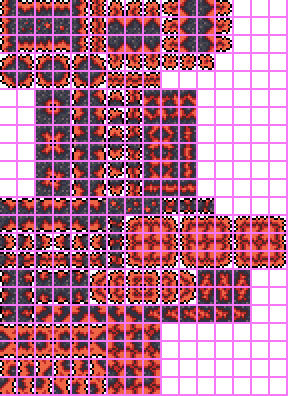
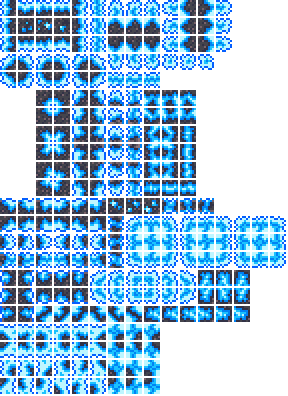
More updates lol

diff --git a/World/Passes/Underworld.cs b/World/Passes/Underworld.cs
@@ -137,18 +137,20 @@ internal class Underworld : GenPass
         }
         #endregion
         progress.Message = "Generating Hellcastle and Ashen Overgrowth";
-        int hellcastleOriginX = (Main.maxTilesX / 5) - 210;
-        int ashenLeft = (Main.maxTilesX / 5) - 450;
-        int ashenRight = (Main.maxTilesX / 5) + 500;
+        int hellcastleOriginX = (Main.maxTilesX / 2) - 100;
+        int ashenLeft = hellcastleOriginX - 100;
+        int ashenRight = hellcastleOriginX + 500;
+        // TODO: make impervious brick pillars
 
-        if (Main.drunkWorld)
-        {
-            hellcastleOriginX = (Main.maxTilesX / 3) - 210;
-            ashenLeft = (Main.maxTilesX / 3) - 450;
-            ashenRight = (Main.maxTilesX / 3) + 500;
-        }
 
-        //HellCastle.Generate(hellcastleOriginX, Main.maxTilesY - 140);
+        //if (Main.drunkWorld)
+        //{
+        //    hellcastleOriginX = (Main.maxTilesX / 3) - 210;
+        //    ashenLeft = (Main.maxTilesX / 3) - 450;
+        //    ashenRight = (Main.maxTilesX / 3) + 500;
+        //}
+
+        Hellcastle.GenerateHellcastle(hellcastleOriginX, Main.maxTilesY - 360);
         for (int hbx = ashenLeft; hbx < ashenRight; hbx++)
         {
             for (int hby = Main.maxTilesY - 200; hby < Main.maxTilesY - 50; hby++)
@@ -161,7 +163,7 @@ internal class Underworld : GenPass
                     if (Main.tile[hbx, hby].TileType == TileID.Ash)
                     {
                         Main.tile[hbx, hby].TileType = (ushort)ModContent.TileType<Impgrass>();
-                        if (WorldGen.genRand.Next(2) == 0)
+                        if (WorldGen.genRand.Next(1) == 0)
                         {
                             WorldGen.GrowTree(hbx, hby - 1);
                         }

diff --git a/Tiles/ImpVines.cs b/Tiles/ImpVines.cs
@@ -15,10 +15,10 @@ public class Impvines : ModTile
         Main.tileNoFail[Type] = true;
         Main.tileNoAttach[Type] = true;
         HitSound = SoundID.Grass;
-        DustType = DustID.Torch;
+        DustType = DustID.DungeonSpirit;
         TileID.Sets.IsVine[Type] = true;
         TileID.Sets.VineThreads[Type] = true;
-        AddMapEntry(new Color(214, 91, 64));
+        AddMapEntry(new Color(18, 176, 229));
     }
 
     public override void KillTile(int i, int j, ref bool fail, ref bool effectOnly, ref bool noItem)

diff --git a/Biomes/HellCastle.cs b/Biomes/HellCastle.cs
@@ -21,6 +21,6 @@ public class Hellcastle : ModBiome
         ushort wallType = Main.tile[tileCoordinates.X, tileCoordinates.Y].WallType;
 
         return ModContent.GetInstance<Systems.BiomeTileCounts>().HellCastleTiles > 350 &&
-            wallType == ModContent.WallType<Walls.ImperviousBrickWallUnsafe>() && player.ZoneUnderworldHeight;
+            wallType == ModContent.WallType<Walls.ImperviousBrickWallUnsafe>();
     }
 }

diff --git a/Tiles/Impgrass.cs b/Tiles/Impgrass.cs
@@ -9,7 +9,7 @@ public class Impgrass : ModTile
 {
     public override void SetStaticDefaults()
     {
-        AddMapEntry(new Color(238, 102, 70));
+        AddMapEntry(new Color(27, 194, 254));
         Main.tileSolid[Type] = true;
         Main.tileBrick[Type] = true;
         Main.tileBlockLight[Type] = true;

diff --git a/Projectiles/Templates/SwordSwingGeneric.cs b/Projectiles/Templates/SwordSwingGeneric.cs
@@ -31,7 +31,6 @@ public class SwordSwingGeneric : ModProjectile
         Projectile.ownerHitCheckDistance = 300f;
         Projectile.usesLocalNPCImmunity = true;
         Projectile.localNPCHitCooldown = 30;
-        Projectile.alpha = 255;
     }
     public override void AI()
     {
